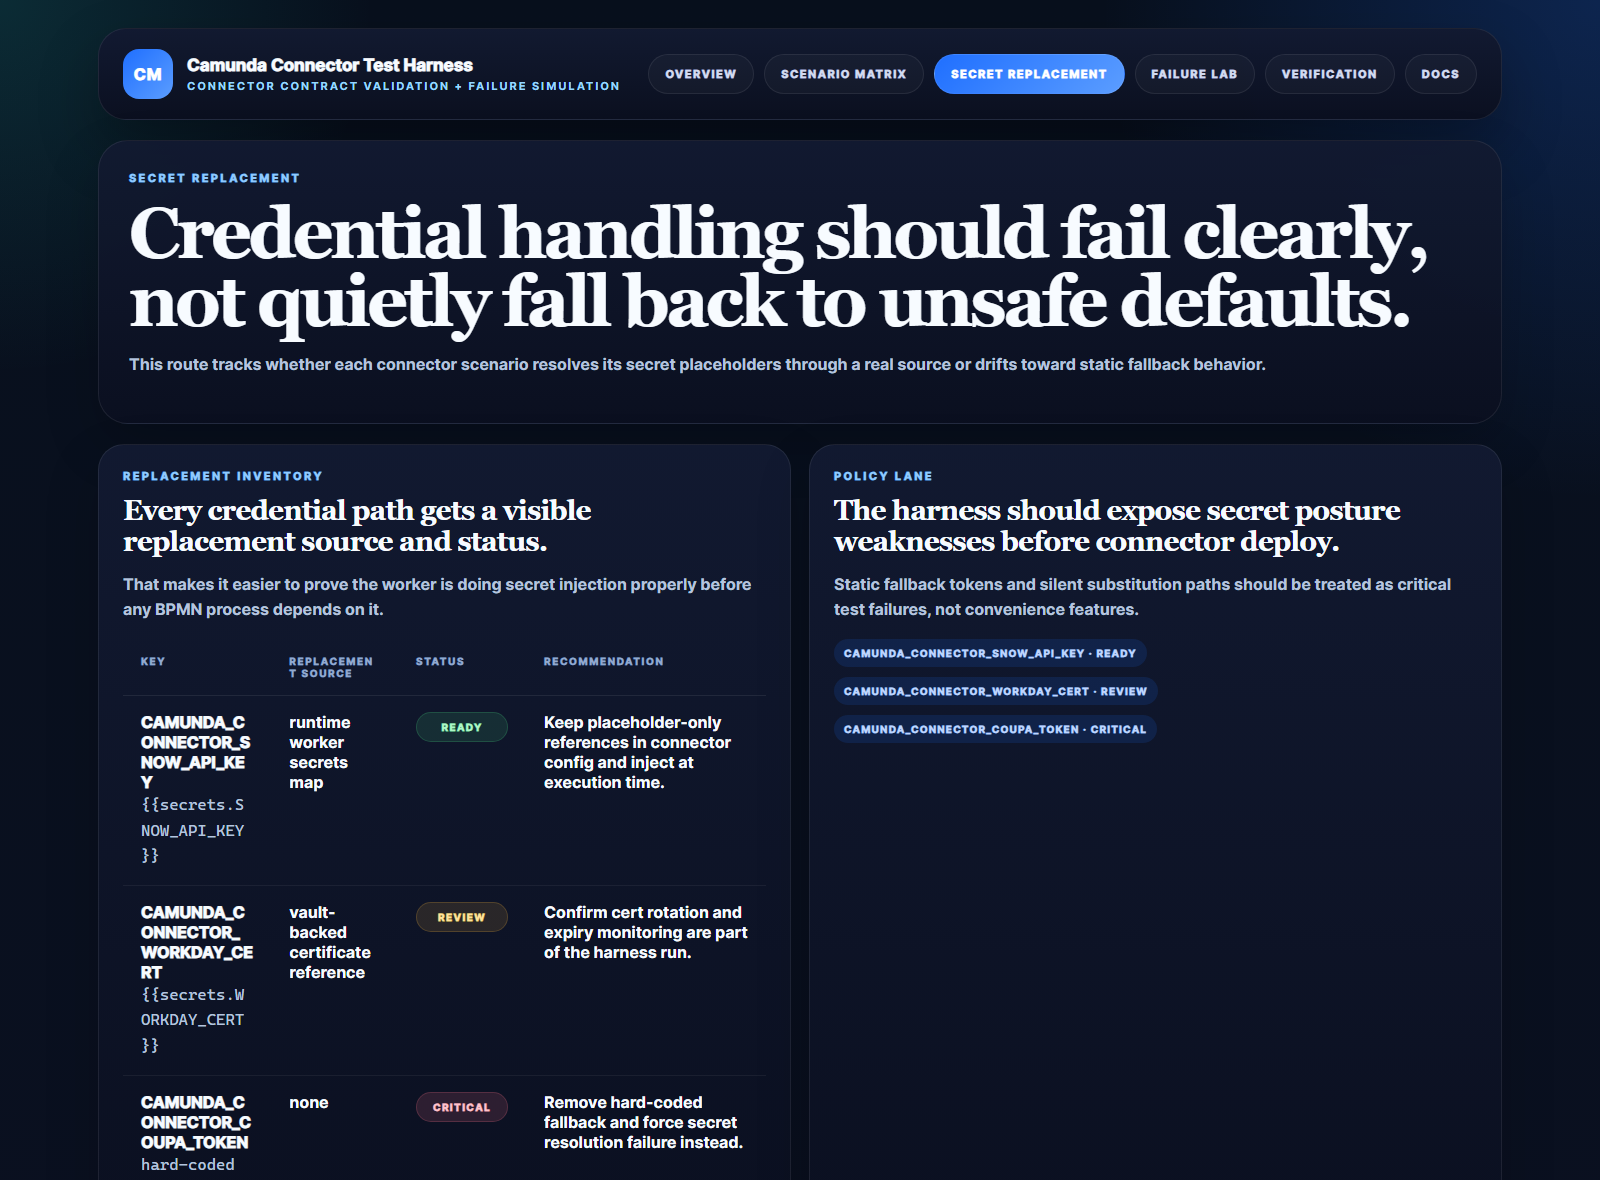
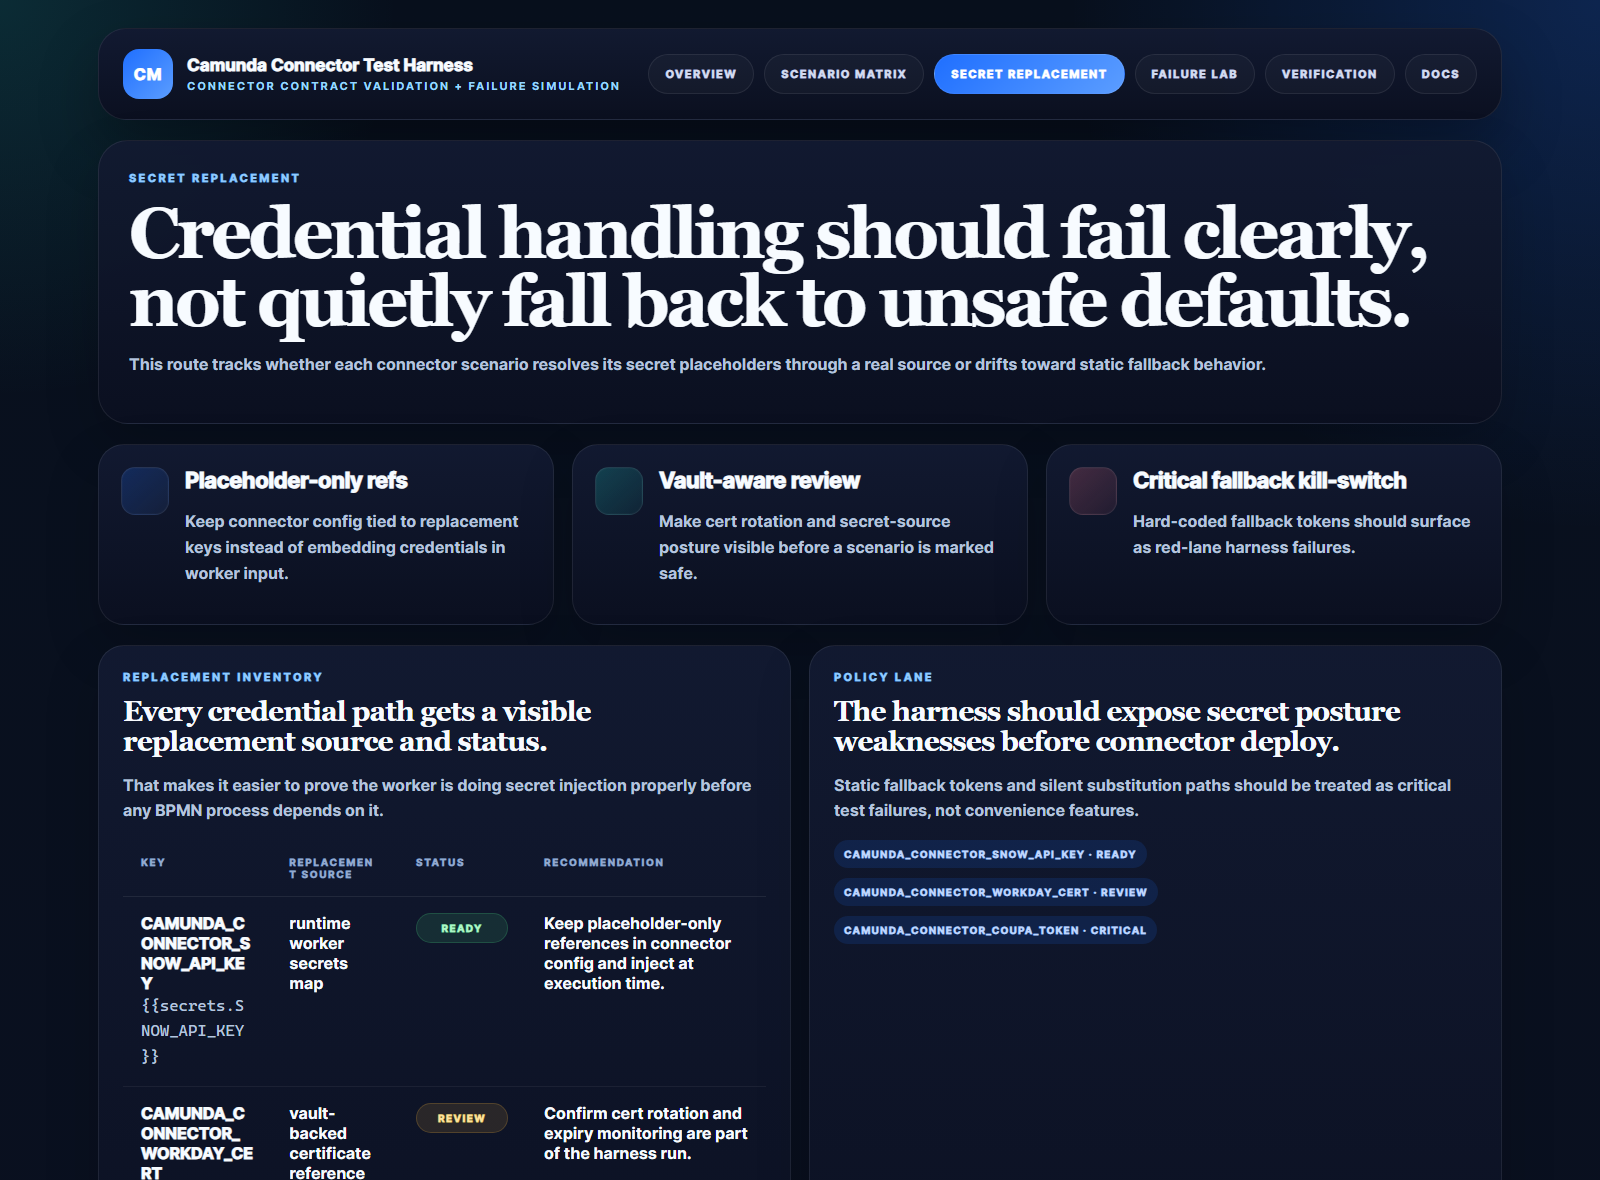
Refresh harness visual system and proof captures

diff --git a/src/services/render.ts b/src/services/render.ts
@@ -49,6 +49,18 @@ function metricCard(label: string, value: string, detail: string): string {
   `;
 }
 
+function featureCard(title: string, detail: string, accent: string): string {
+  return `
+    <article class="panel feature-card">
+      <div class="feature-mark ${accent}"></div>
+      <div>
+        <h3>${escapeHtml(title)}</h3>
+        <p>${escapeHtml(detail)}</p>
+      </div>
+    </article>
+  `;
+}
+
 function signalList(values: string[]): string {
   return `<div class="signal-row">${values
     .map((value) => `<span class="signal">${escapeHtml(value)}</span>`)
@@ -191,6 +203,24 @@ export function page(active: string, body: string): string {
       .hero { margin-top: 20px; padding: 30px; border-radius: 30px; }
       .panel { border-radius: 26px; }
       .section, .metric { padding: 24px; }
+      .feature-card {
+        padding: 22px;
+        display: grid;
+        grid-template-columns: 48px 1fr;
+        gap: 16px;
+        align-items: start;
+      }
+      .feature-mark {
+        width: 48px;
+        height: 48px;
+        border-radius: 14px;
+        background: rgba(255,255,255,0.04);
+        border: 1px solid rgba(255,255,255,0.08);
+        box-shadow: inset 0 0 0 1px rgba(255,255,255,0.02);
+      }
+      .feature-mark.blue { background: linear-gradient(135deg, rgba(31,111,255,0.22), rgba(91,157,255,0.08)); }
+      .feature-mark.teal { background: linear-gradient(135deg, rgba(30,211,198,0.22), rgba(30,211,198,0.08)); }
+      .feature-mark.rose { background: linear-gradient(135deg, rgba(251,113,133,0.22), rgba(251,113,133,0.08)); }
       .eyebrow {
         color: #8fc9ff; font-size: 11px; font-weight: 800; letter-spacing: 0.22em; text-transform: uppercase;
       }
@@ -219,9 +249,96 @@ export function page(active: string, body: string): string {
         display: block; color: var(--camunda-amber); margin-bottom: 8px;
         font-size: 10px; letter-spacing: 0.18em; text-transform: uppercase;
       }
+      .hero-grid {
+        display: grid;
+        grid-template-columns: 1.35fr 0.95fr;
+        gap: 20px;
+        align-items: stretch;
+      }
+      .hero-visual {
+        padding: 24px;
+        border-radius: 26px;
+        border: 1px solid var(--line);
+        background:
+          radial-gradient(circle at top right, rgba(31,111,255,0.16), transparent 34%),
+          linear-gradient(180deg, rgba(20,28,52,0.98), rgba(11,16,32,0.98));
+        display: flex;
+        flex-direction: column;
+        justify-content: space-between;
+        gap: 20px;
+      }
+      .trace-rail {
+        position: relative;
+        min-height: 220px;
+        border-radius: 22px;
+        border: 1px solid rgba(255,255,255,0.06);
+        background:
+          linear-gradient(180deg, rgba(255,255,255,0.02), rgba(255,255,255,0.01)),
+          radial-gradient(circle at center, rgba(30,211,198,0.08), transparent 46%);
+        overflow: hidden;
+      }
+      .trace-node {
+        position: absolute;
+        width: 110px;
+        padding: 12px 10px;
+        border-radius: 16px;
+        border: 1px solid rgba(255,255,255,0.08);
+        background: rgba(10,16,32,0.86);
+        text-align: center;
+      }
+      .trace-node strong {
+        display: block;
+        font-size: 11px;
+        letter-spacing: 0.12em;
+        text-transform: uppercase;
+      }
+      .trace-node span {
+        display: block;
+        margin-top: 6px;
+        color: var(--muted);
+        font-size: 10px;
+      }
+      .trace-node.source { top: 22px; left: 24px; }
+      .trace-node.engine { top: 90px; left: calc(50% - 55px); }
+      .trace-node.target { top: 22px; right: 24px; }
+      .trace-node.audit { bottom: 22px; left: calc(50% - 55px); }
+      .trace-line {
+        position: absolute;
+        background: linear-gradient(90deg, rgba(31,111,255,0.18), rgba(30,211,198,0.35), rgba(31,111,255,0.18));
+        box-shadow: 0 0 18px rgba(91,157,255,0.2);
+      }
+      .trace-line.h-left { top: 76px; left: 128px; width: calc(50% - 160px); height: 2px; }
+      .trace-line.h-right { top: 76px; right: 128px; width: calc(50% - 160px); height: 2px; }
+      .trace-line.v-mid { top: 134px; left: calc(50% - 1px); width: 2px; height: 54px; }
+      .hero-kpis {
+        display: grid;
+        grid-template-columns: repeat(3, minmax(0, 1fr));
+        gap: 12px;
+      }
+      .hero-kpi {
+        padding: 14px;
+        border-radius: 18px;
+        background: rgba(255,255,255,0.03);
+        border: 1px solid rgba(255,255,255,0.06);
+      }
+      .hero-kpi span {
+        display: block;
+        color: #92a9cf;
+        font-size: 10px;
+        font-weight: 800;
+        letter-spacing: 0.16em;
+        text-transform: uppercase;
+      }
+      .hero-kpi strong {
+        display: block;
+        margin-top: 8px;
+        font-size: 28px;
+        letter-spacing: -0.04em;
+      }
       .grid { display: grid; gap: 18px; margin-top: 20px; }
       .grid-four { grid-template-columns: repeat(4, minmax(0, 1fr)); }
       .grid-two { grid-template-columns: 1fr 1fr; }
+      .grid-three { grid-template-columns: repeat(3, minmax(0, 1fr)); }
       .metric .label { color: #92a9cf; font-size: 10px; font-weight: 800; letter-spacing: 0.18em; text-transform: uppercase; }
       .metric .value { margin-top: 12px; font-size: 44px; font-weight: 900; letter-spacing: -0.04em; }
       .signal-row { display: flex; flex-wrap: wrap; gap: 10px; margin-top: 12px; }
@@ -254,8 +371,12 @@ export function page(active: string, body: string): string {
         margin-top: 18px; color: #9eb0ca; font-size: 12px;
         display: flex; justify-content: space-between; gap: 12px;
       }
-      @media (max-width: 1180px) { .grid-four, .grid-two { grid-template-columns: 1fr 1fr; } }
-      @media (max-width: 860px) { .grid-four, .grid-two { grid-template-columns: 1fr; } .topbar { display: block; } }
+      @media (max-width: 1180px) { .grid-four, .grid-two, .grid-three, .hero-grid { grid-template-columns: 1fr 1fr; } }
+      @media (max-width: 860px) {
+        .grid-four, .grid-two, .grid-three, .hero-grid { grid-template-columns: 1fr; }
+        .topbar { display: block; }
+        .hero-kpis { grid-template-columns: 1fr; }
+      }
     </style>
   </head>
   <body>
@@ -284,13 +405,42 @@ export function overview(service: HarnessService): string {
   const summary = service.summary();
   return `
     <section class="hero">
-      <div class="eyebrow">Camunda connector harness</div>
-      <h1>Exercise outbound connectors before secret posture, retries, and variable mappings go sideways.</h1>
-      <p>Use this repo to model scenario validation, required-input checks, secret replacement, and failure behavior for Camunda-style outbound connectors.</p>
-      <div class="callout">
-        <strong>Lead recommendation</strong>
-        <span>${escapeHtml(summary.leadRecommendation)}</span>
+      <div class="hero-grid">
+        <div>
+          <div class="eyebrow">Camunda connector harness</div>
+          <h1>Exercise outbound connectors before secret posture, retries, and variable mappings go sideways.</h1>
+          <p>Use this repo to model scenario validation, required-input checks, secret replacement, and failure behavior for Camunda-style outbound connectors.</p>
+          <div class="callout">
+            <strong>Lead recommendation</strong>
+            <span>${escapeHtml(summary.leadRecommendation)}</span>
+          </div>
+        </div>
+        <aside class="hero-visual">
+          <div>
+            <div class="eyebrow">Execution trace</div>
+            <h2>Validate the connector lane before the worker ever mutates a downstream system.</h2>
+          </div>
+          <div class="trace-rail">
+            <div class="trace-line h-left"></div>
+            <div class="trace-line h-right"></div>
+            <div class="trace-line v-mid"></div>
+            <div class="trace-node source"><strong>Inputs</strong><span>BPMN vars</span></div>
+            <div class="trace-node engine"><strong>Harness</strong><span>validate + mask</span></div>
+            <div class="trace-node target"><strong>Connector</strong><span>dispatch gate</span></div>
+            <div class="trace-node audit"><strong>Replay</strong><span>retry + explain</span></div>
+          </div>
+          <div class="hero-kpis">
+            <div class="hero-kpi"><span>Ready</span><strong>${summary.readyScenarios}</strong></div>
+            <div class="hero-kpi"><span>Secret checks</span><strong>${summary.secretReplacementChecks}</strong></div>
+            <div class="hero-kpi"><span>Failure sims</span><strong>${summary.failureSimulations}</strong></div>
+          </div>
+        </aside>
       </div>
+    </section>
+    <section class="grid grid-three">
+      ${featureCard("Secret Masking", "Replace connector secrets through explicit placeholders instead of unsafe fallback values.", "teal")}
+      ${featureCard("Retry Discipline", "Keep transport retries separate from validation failures and privileged-review paths.", "blue")}
+      ${featureCard("Failure Replay", "Show why a connector retried, halted, or escalated with one readable control surface.", "rose")}
     </section>
     <section class="grid grid-four">
       ${metricCard("Scenario count", String(summary.scenarioCount), "Modeled connector test scenarios in the harness.")}
@@ -322,6 +472,11 @@ export function scenarioMatrix(service: HarnessService): string {
       <h1>See exactly what each connector scenario validates before the worker sends anything downstream.</h1>
       <p>The matrix keeps required inputs, auth posture, execution mode, and expected connector outcomes visible for each modeled test lane.</p>
     </section>
+    <section class="grid grid-three">
+      ${featureCard("Dry-run Ready", "Safe connector cases that should pass schema and dispatch checks without privileged review.", "blue")}
+      ${featureCard("Manual Review", "Connector cases that should stop at the approval lane before secrets or access changes go live.", "teal")}
+      ${featureCard("Fail-fast", "Malformed inputs and unsafe auth posture should stop immediately, not burn retries.", "rose")}
+    </section>
     <section class="grid">
       <article class="panel section">
         <div class="eyebrow">Connector scenarios</div>
@@ -339,6 +494,11 @@ export function secretReplacement(service: HarnessService): string {
       <div class="eyebrow">Secret replacement</div>
       <h1>Credential handling should fail clearly, not quietly fall back to unsafe defaults.</h1>
       <p>This route tracks whether each connector scenario resolves its secret placeholders through a real source or drifts toward static fallback behavior.</p>
+    </section>
+    <section class="grid grid-three">
+      ${featureCard("Placeholder-only refs", "Keep connector config tied to replacement keys instead of embedding credentials in worker input.", "blue")}
+      ${featureCard("Vault-aware review", "Make cert rotation and secret-source posture visible before a scenario is marked safe.", "teal")}
+      ${featureCard("Critical fallback kill-switch", "Hard-coded fallback tokens should surface as red-lane harness failures.", "rose")}
     </section>
     <section class="grid grid-two">
       <article class="panel section">
@@ -389,6 +549,11 @@ export function verification(service: HarnessService): string {
       <div class="eyebrow">Verification</div>
       <h1>What the harness proves about connector safety, secret discipline, and failure replay right now.</h1>
       <p>The current snapshot shows whether the connector lane is validating required inputs, handling secrets safely, and separating retryable problems from fail-fast conditions.</p>
+    </section>
+    <section class="grid grid-three">
+      ${featureCard("Contract quality", "Prove that required variables and payload shape are validated before connector dispatch.", "blue")}
+      ${featureCard("Secret posture", "Keep replacement source clarity and fallback behavior visible in the same review lane.", "teal")}
+      ${featureCard("Replay safety", "Explain why a scenario retried, halted, or escalated after a failure simulation.", "rose")}
     </section>
     <section class="grid grid-four">
       ${metricCard("Mapped scenarios", String(service.scenarios().length), "Connector lanes already modeled in the harness.")}
